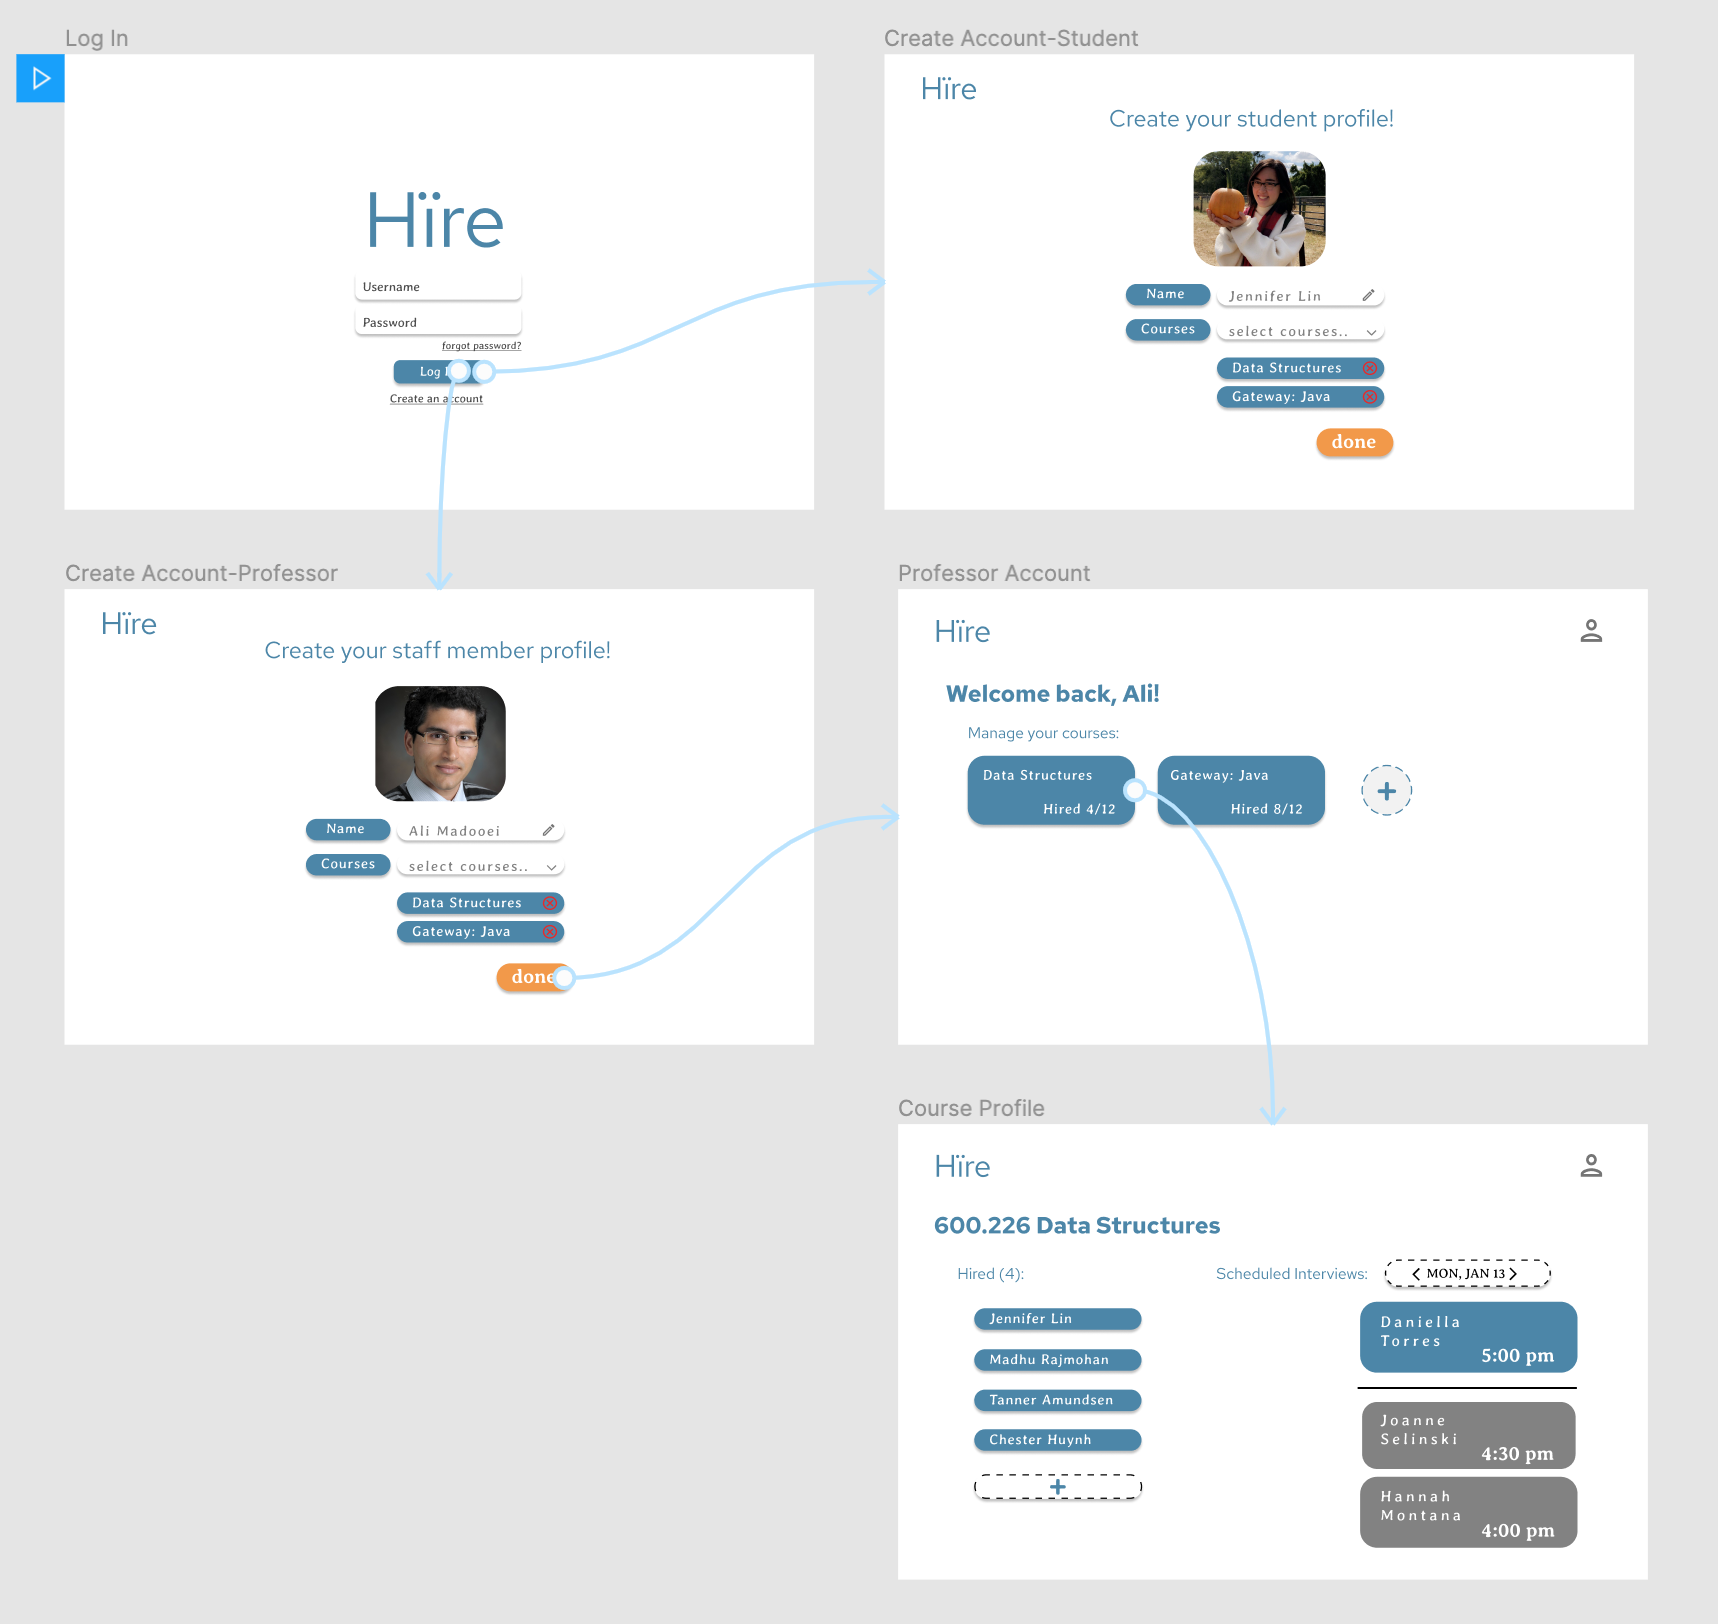
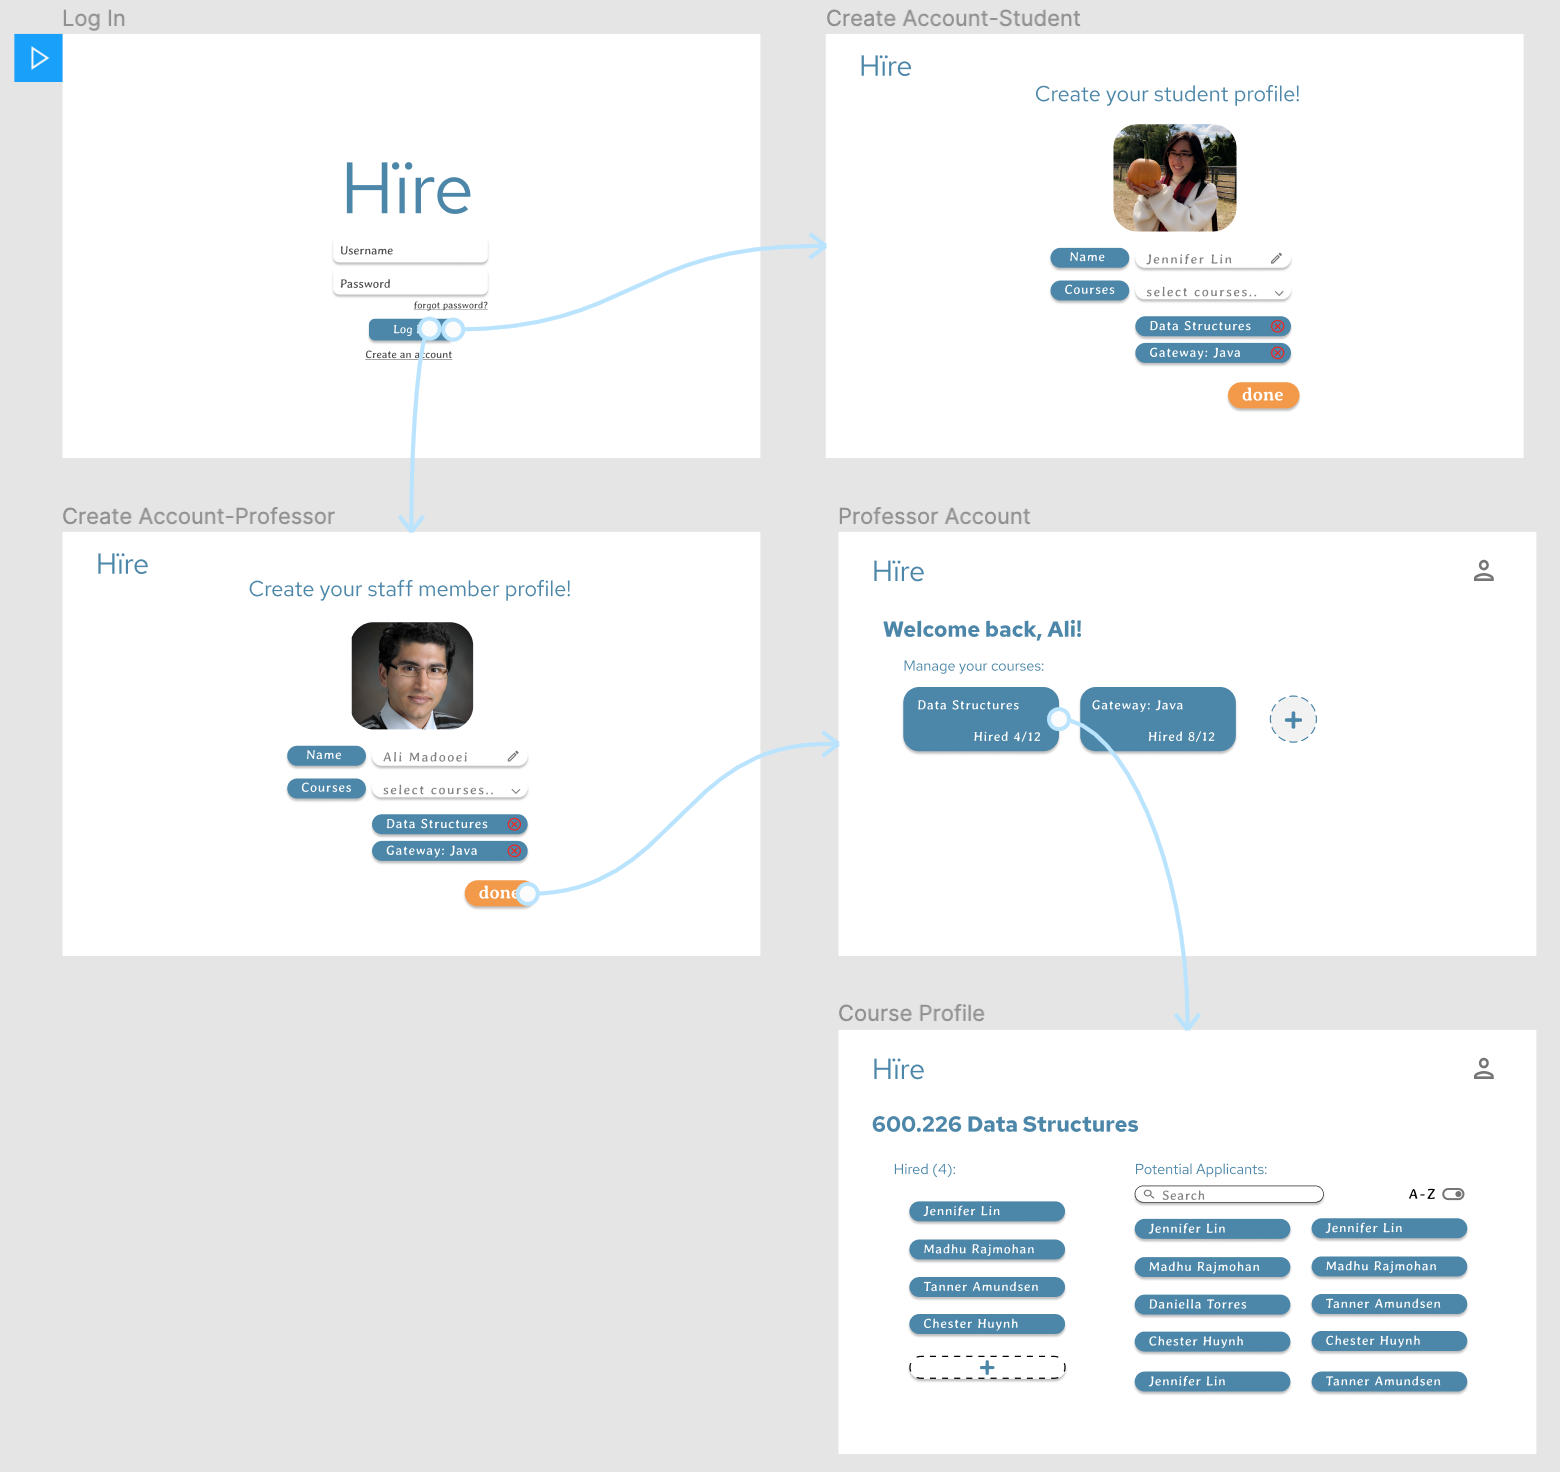
adding revised design and planning document

diff --git a/docs/iteration1/it1_dap.md b/docs/iteration1/it1_dap.md
@@ -1,7 +1,7 @@
 # OO Design
 A UML class diagram reflecting the "model" for that iteration only.
 Use a software to draw this (e.g. draw.io) and save the diagram as an image. 
-Upload the image and link it in here using this syntax
+Upload the image and link it in here using this syntax.
 
 ![UML Diagram](./img/uml.png)
 
@@ -15,17 +15,14 @@ You can draw it by hand and insert it here as an image.
 # Iteration Backlog
 List the User Stories that you will implement in this iteration.
 
-- As a CA applicant I want to be able to fill out the application once and update it every semester so I don’t have to fill out a google survey every semester.
-- As a CA applicant I want to be able to select all the courses I’ve taken and the grade I got in them from a drop down so that I don’t have to write them myself.
-- As a CA applicant I want to be able to select a time slot for an interview without having to email the professor back and forth.
-- As a CA applicant I want to be able to login using my jhu credentials.
-- As a staff member, I want to be able to login using my jhu credentials
-- As a staff member, I want to mark myself as the professor of the courses that I teach from a list of all CS courses
-- As a staff member, I want to list the number of CAs that I will require for each of the courses that I teach
-- As a staff member, I want to list my availability in xx-minute time slots and share that availability with interviewees
-- As a staff member, I want to view the courses that I teach in list form
-- As a staff member, I want to view the names of the CA applicants that have applied to a given course that I am teaching
-- As a staff member, I want to see the full application of a CA applicants that have applied to a given course that I am teaching
+- As a CA applicant I want to be able to fill out an application.
+- As a CA applicant I want to be able to select all the courses I’ve taken from a drop down so that I don’t have to write them myself.
+- As a CA applicant I want to be able to login.
+- As a staff member, I want to be able to login.
+- As a staff member, I want to mark myself as the professor of the courses that I teach from a list of all CS courses.
+- As a staff member, I want to view the courses that I teach in list form.
+- As a staff member, I want to view the names of the CA applicants that have applied to a given course that I am teaching.
+- As a staff member, I want to see the full application of a CA applicants that have applied to a given course that I am teaching.
 
 
 # Tasks
@@ -33,10 +30,19 @@ A tentative list of the "to do" in order to sucessfully complete this iteration.
 This list will change and it is good to keep it updated. 
 It does not need to be exhustive.
 
-- Log in (using JHU credentials)
-- Create user profiles for students and staff
-    - Students: first name, last name, email, year, most recent semester you were on JHU payroll, courses taken, preferences, etc. (model off CA application)
-    - Staff: first name, last name, email, courses teaching, number of CAs needed, etc.
-- Staff can set up potential interview times
-- Staff can notify students selected to be interviewed
-- Students will be notified and can sign up for interviews
+- Login
+    - Login page (frontend)
+- Create classes (backend)
+    - Hardcode CS classes into DB each semester
+    - Course, Staff Member, Applicant, User (abstract class)
+    - Create CRUD/persistence, Sql2o for above courses
+- Profile creation
+    - Get information for user profiles
+        - Students: Name, email, eligible courses to CA (model off CA application)
+        - Staff: Name, courses teaching 
+    - Create onboarding pages (frontend)
+        - Display profile to students/staff members after finishing
+- Visualization from database
+    - Display all hired applicants for each course
+    - Display all potential applicants for each course
+
